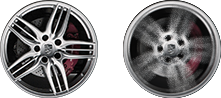
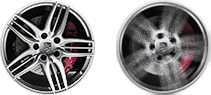
when car first enter the view , rotate the wheels

diff --git a/app/main.js b/app/main.js
@@ -16,6 +16,20 @@ define(function(require, exports, module) {
     require('jquery.easing');
     require('modernizr');
 
+    // extend jquery
+    $.fn.rotate = function( deg ){
+        deg = 'rotate(' + deg + 'deg)';
+        $( this )
+            .css({
+                '-webkit-transform' : deg,
+                   '-moz-transform' : deg,
+                    '-ms-transform' : deg,
+                     '-o-transform' : deg,
+                        'transform' : deg
+            });
+        return this;
+    }
+
     // loading bar
     var $probar = $('#process-bar');
     var $pronum = $('#process-num');
@@ -86,13 +100,13 @@ define(function(require, exports, module) {
     var lastSpeed = 0;
     // cache last motion arguments
     // reduce the Consume of image motion
-    var lastMotionValue = 0;
+    var lastMotionValue = -1;
     var motionValue = 0;
     var motionTimes = 0;
     var winWidth = $( window ).width();
     var GAME_MAX_SPEED = 400;
     var GAME_MAX_DISTANCE = 4000;
-    var p1 , p2 , p , l , wheelDeg ;
+    var p1 , p2 , p , l ;
     game.setConfig({
         duration  : 2000
         , speedCallBack  : function( status ){
@@ -105,25 +119,12 @@ define(function(require, exports, module) {
                 lastSpeed = status.speed;
             }
 
-            //l = ~~ ( 200 * status.speed / GAME_MAX_SPEED / 10 ) * 10;
+            l = ~~ ( status.speed / GAME_MAX_SPEED * 200 );
             // change car position
             $cars.eq(0)
-                .css('left' , status.speed / GAME_MAX_SPEED * 200 );
+                .css('left' , l );
             // change car wheels
-            wheelDeg = 'rotate(' + status.distance * 40 + 'deg)';
-            $car1Wheels.
-                css({
-                    '-webkit-transform' : wheelDeg,
-                    '-moz-transform' : wheelDeg,
-                    '-ms-transform' : wheelDeg,
-                    '-o-transform' : wheelDeg,
-                    'transform' : wheelDeg
-                });
-                /*//.stop( true , false )
-                .animate({
-                    left: status.speed > GAME_MAX_SPEED / 2 ? 200 : 0
-                } , 5000 );
-                */
+            $car1Wheels.rotate( status.distance * 40 );
 
             // TODO.. move bg
             $bg[0].style.marginLeft = - status.distance / 3 % 500 + 'px';
@@ -149,7 +150,7 @@ define(function(require, exports, module) {
             // move the road
             var canvas = $road[0].previousSibling;
             if( canvas && canvas.tagName == 'CANVAS' ){
-                canvas.style.marginLeft = - status.distance * 50 % 500 + 'px';
+                canvas.style.marginLeft = - status.distance * 100 % 500 + 'px';
             }
              //.. judge if game over
             if( status.gameStatus != 3 ){
@@ -158,17 +159,9 @@ define(function(require, exports, module) {
                 // change robot car position
                 $cars.eq(1)
                     .css({
-                        left: p * 10 * winWidth
+                        left: l + Math.min( 4 * p * GAME_MAX_DISTANCE  ,  winWidth )
                     });
-                wheelDeg = 'rotate(' + status.robotDistance * 40 + 'deg)';
-                $car2Wheels.
-                    css({
-                        '-webkit-transform' : wheelDeg,
-                        '-moz-transform' : wheelDeg,
-                        '-ms-transform' : wheelDeg,
-                        '-o-transform' : wheelDeg,
-                        'transform' : wheelDeg
-                    });
+                $car2Wheels.rotate( status.robotDistance * 40 );
                 // change robot dot position
                 $robotDot.css('left' , Math.min( p2 , 94 ) + '%' );
                 //TODO.. change bar background
@@ -188,6 +181,7 @@ define(function(require, exports, module) {
             }
         }
     });
+
     var gameOver = function( result ){
         game.over();
         var tHtml = $timeBoard.html() + result.time % 10;
@@ -235,7 +229,7 @@ define(function(require, exports, module) {
                 .delay( delay )
                 .animate({
                     left : 0
-                } , dur , '' , function(){
+                } , dur , 'easeOutQuart' , function(){
 
                 });
 
@@ -246,7 +240,14 @@ define(function(require, exports, module) {
                 .delay( delay )
                 .animate({
                     left : '6%'
-                } , dur);
+                } , dur , 'easeOutQuart');
+            var $wheels = index == 0 ? $car1Wheels : $car2Wheels;
+            setTimeout( function(){
+                new Animate([ - 2*360 - 360 * Math.random() ] , [ 0 ] , dur , 'easeOutQuart' , function( arr ){
+                    $wheels.rotate( arr[0] );
+                });
+            } , delay );
+
         });
         // 2.counter the seconds
         // show counter btn
@@ -260,6 +261,12 @@ define(function(require, exports, module) {
         M.motionBlur( $cbg[0] , 140 );
         new Animate( [ 140 ] , [ 0 ] , 300 , '' , function( arr ){
             M.motionBlur( $cbg[0] , ~~arr[ 0 ] );
+            // fix for last motion bugs, when
+            if( ~~arr[ 0 ] < 2 ){
+                setTimeout(function(){
+                    M.motionBlur( $cbg[0] , 0 );
+                } , 18 );
+            }
         } , function(){
             $cbg.attr('src' , $cbg.attr('osrc'));
             // counter nums

diff --git a/app/game.js b/app/game.js
@@ -17,7 +17,7 @@ define(function( require , exports , model ){
         // time for reduce speed
         duration  : 2000
         // time for speed up to config.maxSpeed
-        , speedUpDuration : 10000
+        , speedUpDuration : 4000
         , speedCallBack  : null
         , maxSpeed : 400
     }
@@ -70,13 +70,13 @@ define(function( require , exports , model ){
         // last detect distance of the mouse
         var _caLastDis = _caDis.concat([]);
         var _caSpeeds = 0;
-        var _disDuration = 9 / 1000;
+        var _disDuration = 6 / 1000;
         var _winWdth = window.innerWidth;
         var _animate = null;
         var _robotAnimate = null;
 
         var speedExchange = function( cb ){
-            stopSpeedExchange();
+            stopSpeedExchange( true );
             status.robotDistance = 3;
             // for debug
             var fpsStartTime = +new Date();
@@ -84,6 +84,11 @@ define(function( require , exports , model ){
             var $fp = $('#fps');
 
             _caTimer = setTimeout(function(){
+                // if game over
+                if( status.speed == 0 && status.gameStatus == GAME_OVER ){
+                    stopSpeedExchange();
+                    return;
+                }
                 _caTimes++;
                 var spx =  _caDis[0] - _caLastDis[0] ;
                 var spy =  _caDis[1] - _caLastDis[1] ;
@@ -113,6 +118,7 @@ define(function( require , exports , model ){
                             status.speed = ~~arr[0];
                             // count the distance of car
                             status.distance += status.speed * _disDuration;
+
                             if( status.speed - lastSpeed > 40 ){
                                 debugger;
                             }
@@ -141,15 +147,18 @@ define(function( require , exports , model ){
             } , _caDur);
         }
 
-        var stopSpeedExchange = function( ){
+        var stopSpeedExchange = function( clearAnimate ){
             clearTimeout( _caTimer );
             if( _animate ){
                 _animate.pause();
-                _animate = null;
+                // . why set to null ? , for restart game
+                if( clearAnimate )
+                    _animate = null;
             }
             if( _robotAnimate ){
                 _robotAnimate.pause();
-                _robotAnimate = null;
+                if( clearAnimate )
+                    _robotAnimate = null;
             }
         }
 

diff --git a/css/base.css b/css/base.css
@@ -240,14 +240,14 @@ span.lpn-ghost {
 .main-cars .car .end-wheel{
   background: url(../images/wheel.png) no-repeat;
   position: absolute;
-  height: 100px;
-  width: 100px;
-  top: 114px;
-  left: 199px;
+  height: 95px;
+  width: 95px;
+  top: 116px;
+  left: 201px;
 }
 .main-cars .car .front-wheel{
-  top: 116px;
-  left: 633px;
+  top: 117px;
+  left: 635px;
 }
 /*  main -metas */
 @-webkit-keyframes shake{
@@ -458,7 +458,7 @@ span.lpn-ghost {
     background-position: -140px -89px;
 }
 .speed13{
-    background-position: -210 -89px;
+    background-position: -210px -89px;
 }
 .speed14{
     background-position: -285px -89px;
@@ -479,34 +479,34 @@ span.lpn-ghost {
     background-position: -645px -89px;
 }
 
-.speed10{
+.speed20{
     background-position: 0 -178px;
 }
-.speed11{
+.speed21{
     background-position: -70px -178px;
 }
-.speed12{
+.speed22{
     background-position: -140px -178px;
 }
-.speed13{
-    background-position: -210 -178px;
+.speed23{
+    background-position: -210px -178px;
 }
-.speed14{
+.speed24{
     background-position: -285px -178px;
 }
-.speed15{
-    background-position: -357px -178;
+.speed25{
+    background-position: -357px -178px;
 }
-.speed16{
+.speed26{
     background-position: -427px -178px;
 }
-.speed17{
+.speed27{
     background-position: -500px -178px;
 }
-.speed18{
+.speed28{
     background-position: -574px -178px;
 }
-.speed19{
+.speed29{
     background-position: -645px -178px;
 }
 

diff --git a/src/Animate.js b/src/Animate.js
@@ -37,7 +37,9 @@ define( function( require , exports , model ){
                     // end Animate
                     return;
                 }
-                var easing = Animate.easing[that.easing] || Animate.easing.linear,
+                var easing = Animate.easing[that.easing] ||
+                    ( jQuery && jQuery.easing[that.easing] ) ||
+                    Animate.easing.linear,
                     currValues = [];
                 for (var i = 0,len = queue.length; i < len; i++){
                     currValues.push(queue[i].update(dur,that.duration,easing));
@@ -75,7 +77,9 @@ define( function( require , exports , model ){
                     // end Animate
                     return;
                 }
-                var easing = Animate.easing[that.easing] || Animate.easing.linear,
+                var easing = Animate.easing[that.easing] ||
+                    ( jQuery && jQuery.easing[that.easing] ) ||
+                    Animate.easing.linear,
                     currValues = [];
                 for (var i = 0,len = queue.length; i < len; i++){
                     currValues.push(queue[i].update(dur,that.duration,easing));

diff --git a/src/jquery-plugin/jquery.queryloader2.js b/src/jquery-plugin/jquery.queryloader2.js
@@ -32,7 +32,7 @@
     var imgLoadFinished = function(){
         imageLoadedNum++;
         // show loading status
-        option.onLoading( ~~ ( imageLoadedNum / imageCounter ) * 100 );
+        option.onLoading( ~~ ( imageLoadedNum / imageCounter * 100 ) );
         if( imageLoadedNum == imageCounter ){
             var dur = new Date() - startTime;
             // complete all iamges

diff --git a/app/motion-blur.js b/app/motion-blur.js
@@ -7,6 +7,7 @@ define(function( require , exports , model ){
             for (var i = 0 , len = pixes.data.length ; i < len; i++) {
                 newPix.data[ i ] = pixes.data[ i ];
             }
+            cb && cb();
             return;
         }
         startline = startline || 0;
